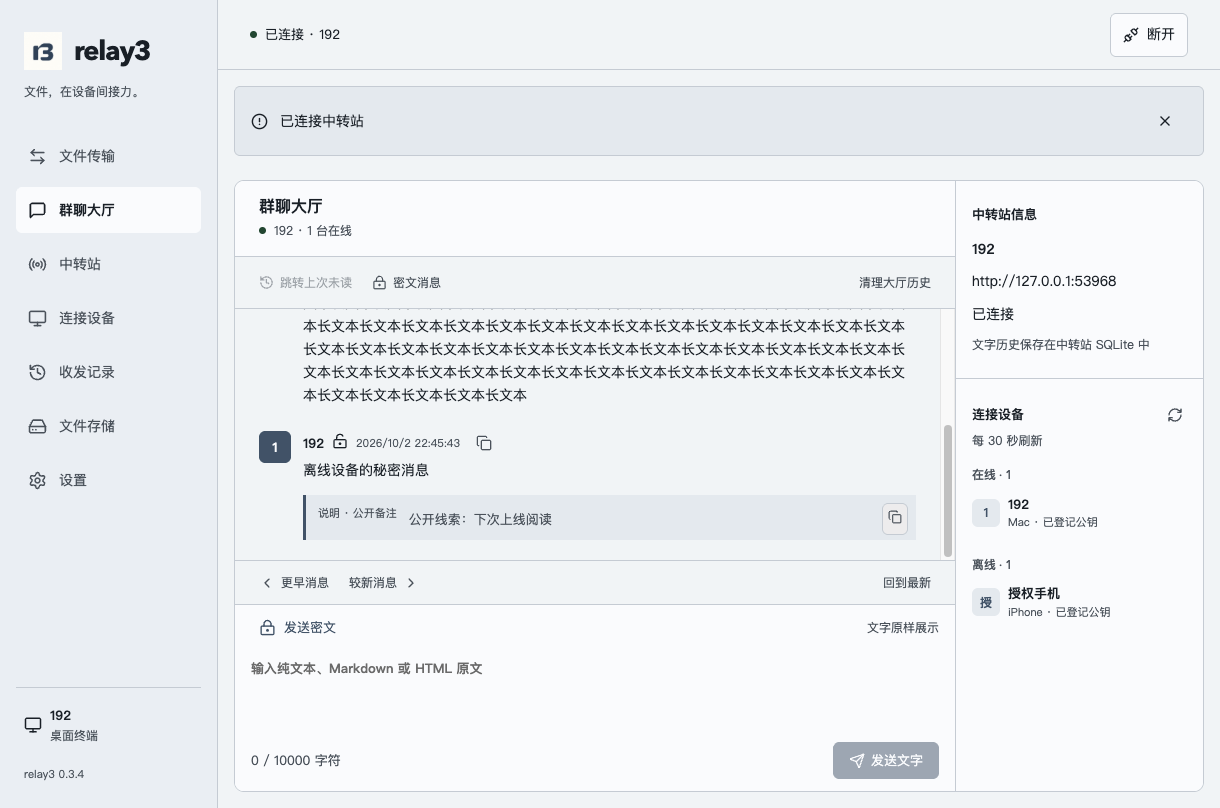
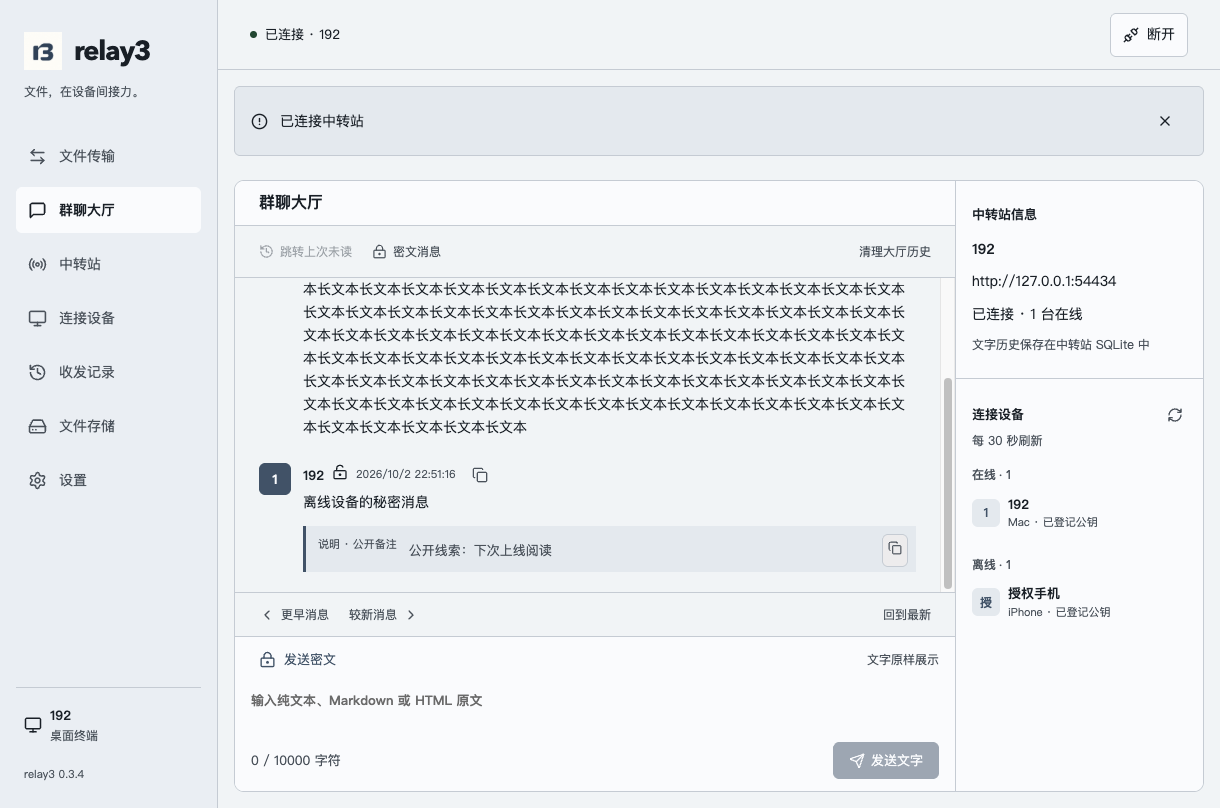
fix(群聊) 收起标题状态并扩大消息列表显示区域

diff --git a/src/chat/ChatHall.tsx b/src/chat/ChatHall.tsx
@@ -429,7 +429,10 @@ export function ChatHall({
           <h2>中转站信息</h2>
           <strong>{info?.stationName ?? session.stationName}</strong>
           <p>{session.base}</p>
-          <p>{connected ? '已连接' : '已断开 · 设备信息暂未更新'}</p>
+          <p>
+            {connected ? '已连接' : '已断开 · 设备信息暂未更新'} ·{' '}
+            {devices.filter((d) => d.online).length} 台在线
+          </p>
           <small>文字历史保存在中转站 SQLite 中</small>
         </section>
         <section className="panel">
@@ -543,11 +546,6 @@ export function ChatHall({
           <header className="chat-room-head">
             <div>
               <h1>群聊大厅</h1>
-              <p>
-                <span className={`dot ${connected ? 'on' : ''}`} />
-                {info?.stationName ?? session.stationName} ·{' '}
-                {devices.filter((d) => d.online).length} 台在线
-              </p>
             </div>
             <button
               className="chat-details-action"

diff --git a/src/styles.css b/src/styles.css
@@ -2178,3 +2178,19 @@ main.chat-workspace {
 .chat-remark-editor .chat-remark-input {
   padding-top: var(--space-sm);
 }
+
+/* 群聊标题只保留名称，将高度让给消息列表。 */
+.chat-room-head {
+  padding-top: var(--space-md);
+  padding-bottom: var(--space-md);
+}
+.chat-main > .chat-composer textarea {
+  height: 56px;
+  min-height: 48px;
+}
+@media (max-width: 600px) {
+  .chat-main > .chat-composer textarea {
+    height: 48px;
+    min-height: 40px;
+  }
+}
